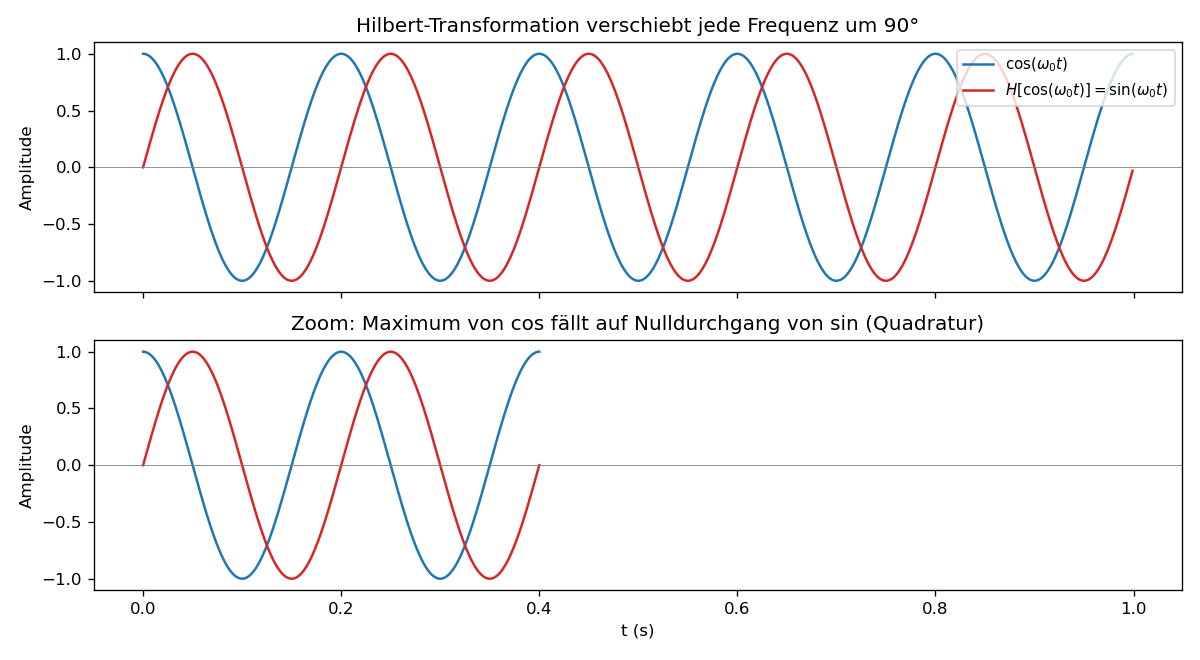
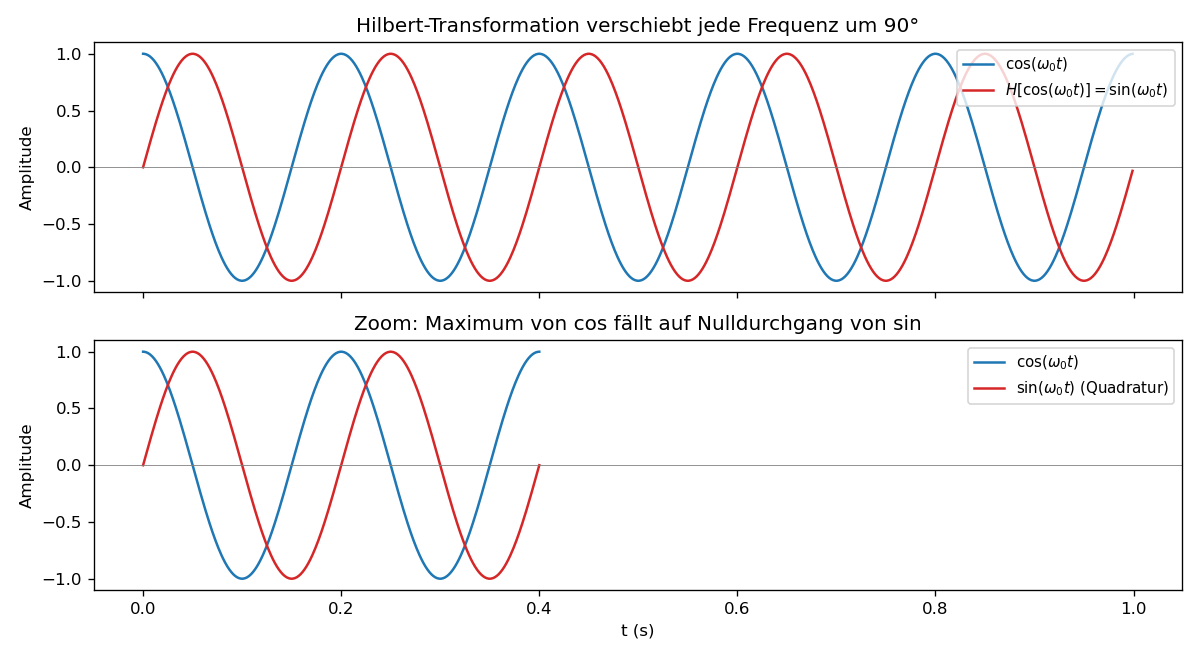
Skript-Review umsetzen: Klarheit, Schwellwerte, Achsenbeschriftung
Nachgang zum unabhängigen Code-Review der Visualisierungs-Skripte.
Keine Mathe-Bugs gefunden, aber acht Punkte, die Lernenden das Lesen
erleichtern:

- Einheit 2: Legende "Partialsumme N=k" → "Partialsumme bis n=k",
  damit klar wird, dass n den höchsten Harmonischen-Index meint.
- Einheit 3 (Skript + Inline-Snippet): zweistufiges np.where durch
  np.sinc ersetzt — kürzer, bei omega=0 von Hause aus korrekt.
- Einheit 4: gleiche Vereinfachung mit np.sinc.
- Einheit 5: 11-Hz-Samples werden jetzt als hohle rote Kreise um die
  schwarzen 1-Hz-Samples gezeichnet (Aliasing wird visuell beweisbar
  statt nur behauptet). Titel "Sinus" → "Sinusschwingung", DFT-Plot
  bekommt y-Achsenbeschriftung |X[k]|/N. Markdown angeglichen.
- Einheit 6: Zoom-Panel bekommt eigene Legende.
- Einheit 8 (Skript + Inline-Snippet): np.diff lebt auf dem versetzten
  Gitter — x-Achse für inst_freq jetzt Mittelpunkte (t[:-1]+t[1:])/2
  statt t[:-1]. Bei hoher Abtastrate war der Versatz unsichtbar,
  schlägt aber bei langsameren Signalen sichtbar durch.
- Projekt 1: Phasen-Schwellwert von 0.02 auf 0.005 gesenkt, damit
  auch höhere Sinc-Nebenzipfel ihre π-Sprünge zeigen.
- Projekt 4: Inline-Kommentar zur Hermitesymmetrie ergänzt
  (np.real(ifft) ist nur sicher, weil H gerade in f ist).

Changed region(s): [[0.2467, 0.4848, 0.9867, 0.6061], [0.9558, 0.5152, 0.9867, 0.5455]]

diff --git a/kurs/scripts/einheit-5.py b/kurs/scripts/einheit-5.py
@@ -22,17 +22,20 @@ fig, (ax_time, ax_spec) = plt.subplots(1, 2, figsize=(12, 4.5))
 
 ax_time.plot(t_fine, x_low, color="C0", label=f"{f_low:.0f} Hz")
 ax_time.plot(t_fine, x_high, color="C3", linestyle="--", label=f"{f_high:.0f} Hz")
-ax_time.scatter(t_samples, samples_low, color="black", zorder=3,
-                label=f"Samples bei fs={fs:.0f} Hz")
+ax_time.scatter(t_samples, samples_low, color="black", zorder=4,
+                s=40, label=f"Samples {f_low:.0f} Hz bei fs={fs:.0f} Hz")
+ax_time.scatter(t_samples, samples_high, facecolors="none", edgecolors="C3",
+                s=130, lw=1.6, zorder=3,
+                label=f"Samples {f_high:.0f} Hz (umschließen die schwarzen)")
 ax_time.set_xlabel("t (s)")
-ax_time.set_title("Zwei verschiedene Sinusse, identische Samples")
-ax_time.legend(loc="lower left", fontsize=9)
+ax_time.set_ylabel("Amplitude")
+ax_time.set_title("Zwei verschiedene Schwingungen, identische Samples")
+ax_time.legend(loc="lower left", fontsize=8)
 
 N = 256
 fs_demo = 100.0
 n = np.arange(N)
 true_freq = 30.0
-alias_freq = fs_demo - true_freq
 signal = np.cos(2 * np.pi * true_freq * n / fs_demo)
 X = np.fft.fft(signal)
 freqs = np.fft.fftfreq(N, d=1 / fs_demo)
@@ -41,7 +44,8 @@ ax_spec.plot(freqs[order], np.abs(X[order]) / N, color="C0")
 ax_spec.axvline(fs_demo / 2, color="gray", linestyle=":", label="Nyquist fs/2")
 ax_spec.axvline(-fs_demo / 2, color="gray", linestyle=":")
 ax_spec.set_xlabel("Frequenz (Hz)")
-ax_spec.set_title(f"DFT eines {true_freq:.0f}-Hz-Sinus bei fs={fs_demo:.0f} Hz")
+ax_spec.set_ylabel(r"$|X[k]|/N$")
+ax_spec.set_title(f"DFT eines {true_freq:.0f}-Hz-Kosinus bei fs={fs_demo:.0f} Hz")
 ax_spec.legend(fontsize=9)
 
 fig.tight_layout()

diff --git a/kurs/scripts/einheit-6.py b/kurs/scripts/einheit-6.py
@@ -23,12 +23,15 @@ axes[0].set_title("Hilbert-Transformation verschiebt jede Frequenz um 90°")
 axes[0].legend(loc="upper right", fontsize=9)
 
 t_zoom_mask = t <= 0.4
-axes[1].plot(t[t_zoom_mask], cos_signal[t_zoom_mask], color="C0")
-axes[1].plot(t[t_zoom_mask], hilbert_cos[t_zoom_mask], color="C3")
+axes[1].plot(t[t_zoom_mask], cos_signal[t_zoom_mask], color="C0",
+             label=r"$\cos(\omega_0 t)$")
+axes[1].plot(t[t_zoom_mask], hilbert_cos[t_zoom_mask], color="C3",
+             label=r"$\sin(\omega_0 t)$ (Quadratur)")
 axes[1].axhline(0, color="gray", lw=0.5)
 axes[1].set_xlabel("t (s)")
 axes[1].set_ylabel("Amplitude")
-axes[1].set_title("Zoom: Maximum von cos fällt auf Nulldurchgang von sin (Quadratur)")
+axes[1].set_title("Zoom: Maximum von cos fällt auf Nulldurchgang von sin")
+axes[1].legend(loc="upper right", fontsize=9)
 
 fig.tight_layout()
 fig.savefig("kurs/bilder/einheit-6.png", dpi=120)

diff --git a/kurs/scripts/einheit-2.py b/kurs/scripts/einheit-2.py
@@ -21,7 +21,7 @@ fig, ax = plt.subplots(figsize=(10, 4.5))
 ax.plot(t, ground_truth, color="black", lw=1.2, label="Rechteckwelle")
 for num_terms, color in zip([1, 3, 7, 25], ["C0", "C1", "C2", "C3"]):
     ax.plot(t, partial_sum(num_terms), color=color, lw=1.4,
-            label=f"Partialsumme N={2*num_terms-1}")
+            label=f"Partialsumme bis n={2*num_terms-1}")
 ax.axhline(0, color="gray", lw=0.5)
 ax.set_xlabel("t")
 ax.set_title("Fourier-Reihe der Rechteckwelle: Annäherung wächst, Gibbs-Überschwinger bleibt")

diff --git a/kurs/scripts/einheit-3.py b/kurs/scripts/einheit-3.py
@@ -10,9 +10,8 @@ omega = np.linspace(-15, 15, 2000)
 
 a_rect = 1.0
 rect = np.where(np.abs(t) <= a_rect, 1.0, 0.0)
-rect_ft = np.where(np.abs(omega) > 1e-9,
-                   2 * np.sin(omega * a_rect) / np.where(omega == 0, 1, omega),
-                   2 * a_rect)
+# 2 sin(omega a)/omega = 2a * sinc(omega a / pi); np.sinc(x) = sin(pi x)/(pi x)
+rect_ft = 2 * a_rect * np.sinc(omega * a_rect / np.pi)
 
 a_gauss = 1.0
 gauss = np.exp(-a_gauss * t**2)

diff --git a/kurs/scripts/einheit-4.py b/kurs/scripts/einheit-4.py
@@ -13,9 +13,7 @@ a = 0.5
 rect = np.where(np.abs(t) <= a, 1.0, 0.0)
 convolved = np.convolve(rect, rect, mode="same") * dt
 
-rect_ft = np.where(np.abs(omega) > 1e-9,
-                   2 * np.sin(omega * a) / np.where(omega == 0, 1, omega),
-                   2 * a)
+rect_ft = 2 * a * np.sinc(omega * a / np.pi)   # 2 sin(omega a)/omega, sauber bei 0
 product_ft = rect_ft ** 2
 
 fig, axes = plt.subplots(2, 2, figsize=(11, 6.5))

diff --git a/kurs/scripts/projekte/projekt-1-fft-signale.py b/kurs/scripts/projekte/projekt-1-fft-signale.py
@@ -39,7 +39,8 @@ for row, (name, x) in enumerate(signals.items()):
     magnitude = np.abs(X)
     phase = np.angle(X)
 
-    threshold = 0.02 * magnitude.max()
+    # Schwellwert klein wählen, damit auch die Nebenzipfel des Sinc sichtbar bleiben
+    threshold = 0.005 * magnitude.max()
     phase_display = np.where(magnitude > threshold, phase, np.nan)
 
     axes[row, 0].plot(t, x, color="C0", lw=1.0)

diff --git a/kurs/scripts/projekte/projekt-4-filter.py b/kurs/scripts/projekte/projekt-4-filter.py
@@ -58,6 +58,8 @@ axes[0, 1].grid(alpha=0.3)
 # Filter
 for row, (name, H) in enumerate(filters.items(), start=1):
     Y = X * H
+    # H ist gerade in f (H(-f)=H(f)) → Y bleibt hermitesch → y ist reell.
+    # Ohne diese Symmetrie (z.B. einseitiger Filter) wäre y komplex.
     y = np.real(np.fft.ifft(Y))
 
     axes[row, 0].plot(t, y, color="C0", lw=0.9)

diff --git a/kurs/scripts/einheit-8.py b/kurs/scripts/einheit-8.py
@@ -16,8 +16,9 @@ signal = np.cos(phi)
 
 analytic = hilbert(signal)
 inst_phase = np.unwrap(np.angle(analytic))
+# np.diff lebt auf dem versetzten Gitter; Mittelpunkte als x-Achse verwenden
 inst_freq = np.diff(inst_phase) / (2 * np.pi) * fs
-t_freq = t[:-1]
+t_freq = (t[:-1] + t[1:]) / 2
 
 fig, axes = plt.subplots(2, 1, figsize=(11, 6), sharex=True)
 

diff --git a/kurs/einheit-5.md b/kurs/einheit-5.md
@@ -82,7 +82,7 @@ Frequenzen oberhalb dieser Grenze erscheinen als falsche niedrigere Frequenzen. 
 
 ![Aliasing: zwei verschiedene Sinusse mit identischen Samples, daneben das DFT-Spektrum eines Sinus](bilder/einheit-5.png)
 
-Links: Ein 1-Hz-Sinus und ein 11-Hz-Sinus erzeugen bei \(f_s=10\,\text{Hz}\) **exakt dieselben Abtastwerte**. Aus den schwarzen Punkten allein lassen sich die beiden Frequenzen nicht unterscheiden — das ist Aliasing. Rechts: Die DFT eines 30-Hz-Sinus bei \(f_s=100\,\text{Hz}\) zeigt zwei symmetrische Linien bei \(\pm 30\,\text{Hz}\) (konjugierte Symmetrie reeller Signale).
+Links: Eine 1-Hz-Schwingung und eine 11-Hz-Schwingung erzeugen bei \(f_s=10\,\text{Hz}\) **exakt dieselben Abtastwerte** — die roten Kreise umschließen die schwarzen Punkte. Aus den Samples allein lassen sich die beiden Frequenzen nicht unterscheiden, das ist Aliasing. Rechts: Die DFT eines 30-Hz-Kosinus bei \(f_s=100\,\text{Hz}\) zeigt zwei symmetrische Linien bei \(\pm 30\,\text{Hz}\) (konjugierte Symmetrie reeller Signale).
 
 Kernidee in Python (vollständiges Skript: [`scripts/einheit-5.py`](scripts/einheit-5.py)):
 

diff --git a/kurs/einheit-3.md b/kurs/einheit-3.md
@@ -133,7 +133,7 @@ t = np.linspace(-6, 6, 2000)
 omega = np.linspace(-15, 15, 2000)
 
 rect = np.where(np.abs(t) <= 1.0, 1.0, 0.0)
-rect_ft = 2 * np.sin(omega) / np.where(omega == 0, 1, omega)
+rect_ft = 2 * np.sinc(omega / np.pi)   # = 2 sin(omega)/omega, sauber bei omega=0
 
 gauss = np.exp(-t**2)
 gauss_ft = np.sqrt(np.pi) * np.exp(-omega**2 / 4)

diff --git a/kurs/einheit-8.md b/kurs/einheit-8.md
@@ -62,7 +62,9 @@ signal = np.cos(phi)
 
 analytic = hilbert(signal)
 inst_phase = np.unwrap(np.angle(analytic))
+# np.diff lebt auf dem versetzten Gitter (Mittelpunkte zwischen den t-Werten)
 inst_freq = np.diff(inst_phase) / (2 * np.pi) * fs   # Momentanfrequenz in Hz
+t_freq = (t[:-1] + t[1:]) / 2
 ```
 
 ## 8.4 Abschlussaufgaben
